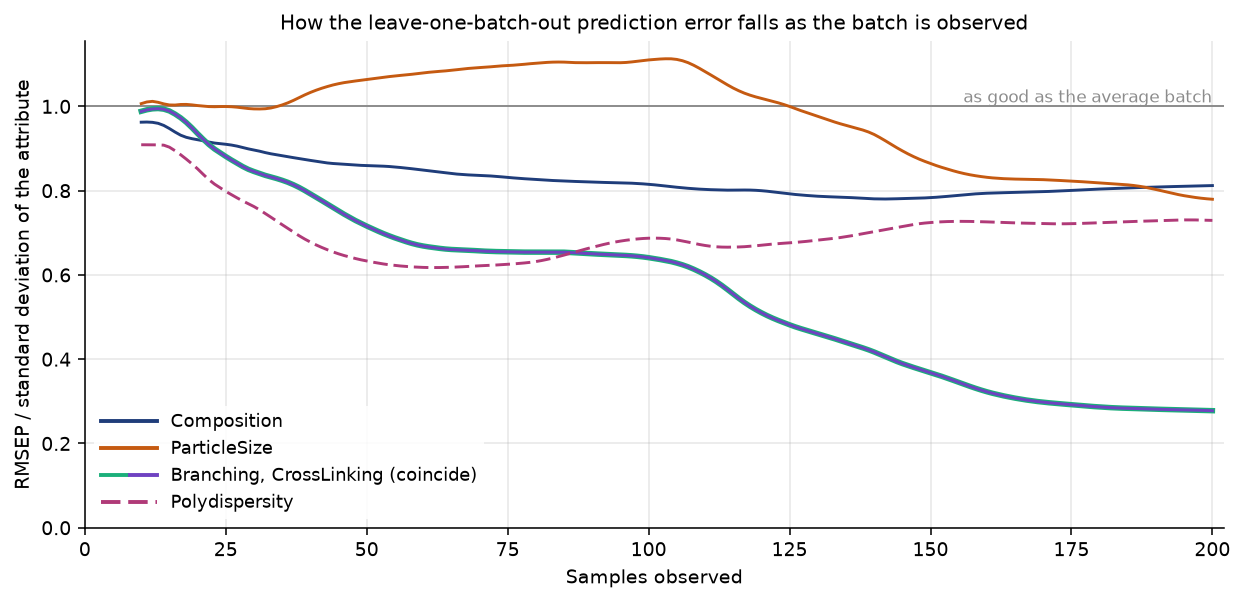
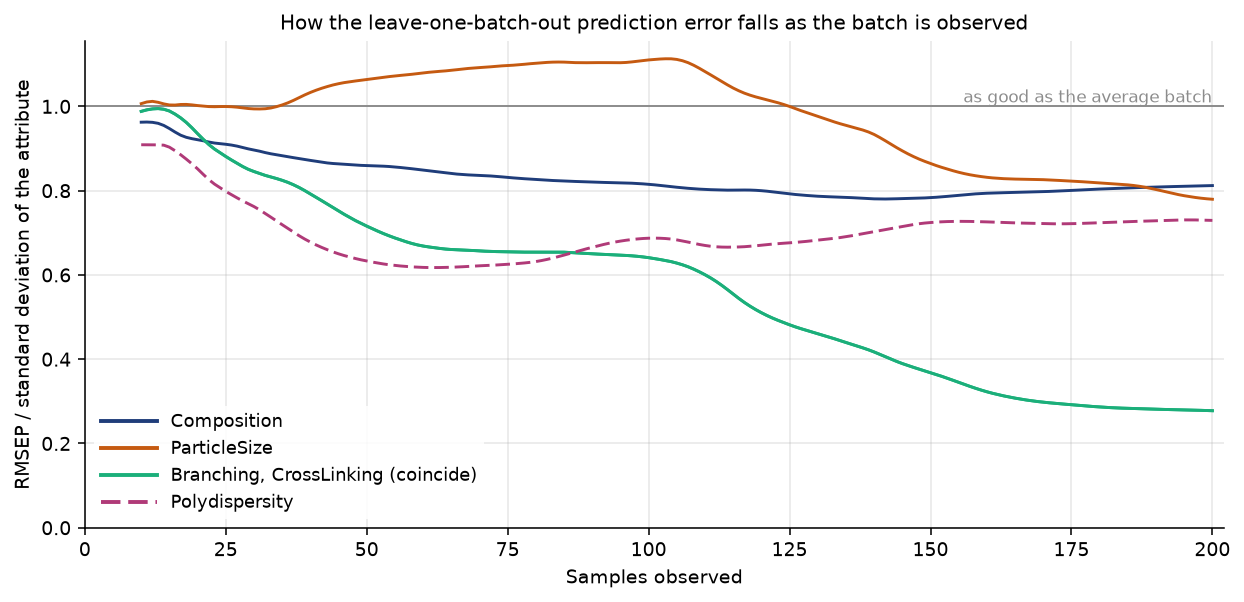
Put cross-linking on branching's aqua in the SBR error figure
The cross-linking curve was purple, which sat too close to the composition's
dark blue to be told apart at a glance. It joins branching on aqua, which the
two curves already share by coinciding exactly: branching and cross-linking
are one measurement in two units.

Three things existed only to let two colours show through each other at the
same coordinates and now have nothing to do: the 2.8-point underdraw on
branching, the two-colour legend swatch, and the HandlerTuple it needed. All
three go, leaving four lines and four legend entries.

Only this figure is affected. The shared PURPLE constant still carries the
DuPont cluster, the FMC disposition marker and the FMC middling batch, so it
is untouched; the change is to this script's own attribute colour map, which
no other figure reads.

The other thirteen SBR figures re-render byte-different but pixel-identical,
so they are left at their committed versions.

Claude-Session: https://claude.ai/code/session_01LXthGpHLQFfGubBiKFtGAE

diff --git a/batch/batch-case-sbr-figures.py b/batch/batch-case-sbr-figures.py
@@ -57,7 +57,6 @@ from batch_case_common import (
     shade_alternate_tags,
     tag_panels,
 )
-from matplotlib.legend_handler import HandlerTuple
 from matplotlib.lines import Line2D
 from matplotlib.patches import Patch
 from matplotlib.ticker import MaxNLocator, StrMethodFormatter
@@ -75,7 +74,7 @@ ATTRIBUTE_COLOURS = {
     "Composition": DARK_BLUE,
     "ParticleSize": ORANGE,
     "Branching": AQUA,
-    "CrossLinking": PURPLE,
+    "CrossLinking": AQUA,
     "Polydispersity": MAGENTA,
 }
 REPORT_SAMPLES = [10, 50, 100, 150, 200]
@@ -246,20 +245,18 @@ def main(out_dir: pathlib.Path, data_url: str | None) -> None:
     ax.text(0.99, 1.0, "as good as the average batch", transform=ax.get_yaxis_transform(), ha="right", va="bottom",
             fontsize=8.5, color=GREY)
     for attribute, colour in ATTRIBUTE_COLOURS.items():
-        # Branching and CrossLinking coincide; the wider line underneath lets both colours show.
-        lw = 2.8 if attribute == "Branching" else 1.5
         # Polydispersity runs close to the composition over much of the batch, so it is dashed.
         style = (0, (5, 2)) if attribute == "Polydispersity" else "-"
-        ax.plot(rmsep_ratio.index, rmsep_ratio[attribute].to_numpy(), color=colour, lw=lw, ls=style, zorder=3)
+        ax.plot(rmsep_ratio.index, rmsep_ratio[attribute].to_numpy(), color=colour, lw=1.5, ls=style, zorder=3)
     swatch = {attribute: Line2D([], [], color=colour, lw=2,
                                 ls=(0, (5, 2)) if attribute == "Polydispersity" else "-")
               for attribute, colour in ATTRIBUTE_COLOURS.items()}
-    handles = [swatch["Composition"], swatch["ParticleSize"], (swatch["Branching"], swatch["CrossLinking"]), swatch["Polydispersity"]]
+    # Branching and CrossLinking coincide and now share a colour, so they share one entry.
+    handles = [swatch["Composition"], swatch["ParticleSize"], swatch["Branching"], swatch["Polydispersity"]]
     labels = ["Composition", "ParticleSize", "Branching, CrossLinking (coincide)", "Polydispersity"]
     # Bottom left: the curves start high on the left and fall to the right, so the upper right is
     # where they end up and the lower left is the one corner they never reach.
-    ax.legend(handles, labels, loc="lower left", handler_map={tuple: HandlerTuple(ndivide=None, pad=0.2)},
-              handlelength=3.2)
+    ax.legend(handles, labels, loc="lower left", handlelength=3.2)
     ax.set_xlim(0, model.n_timesteps_ + 2)
     ax.set_ylim(0, None)
     ax.set_xlabel("Samples observed")
